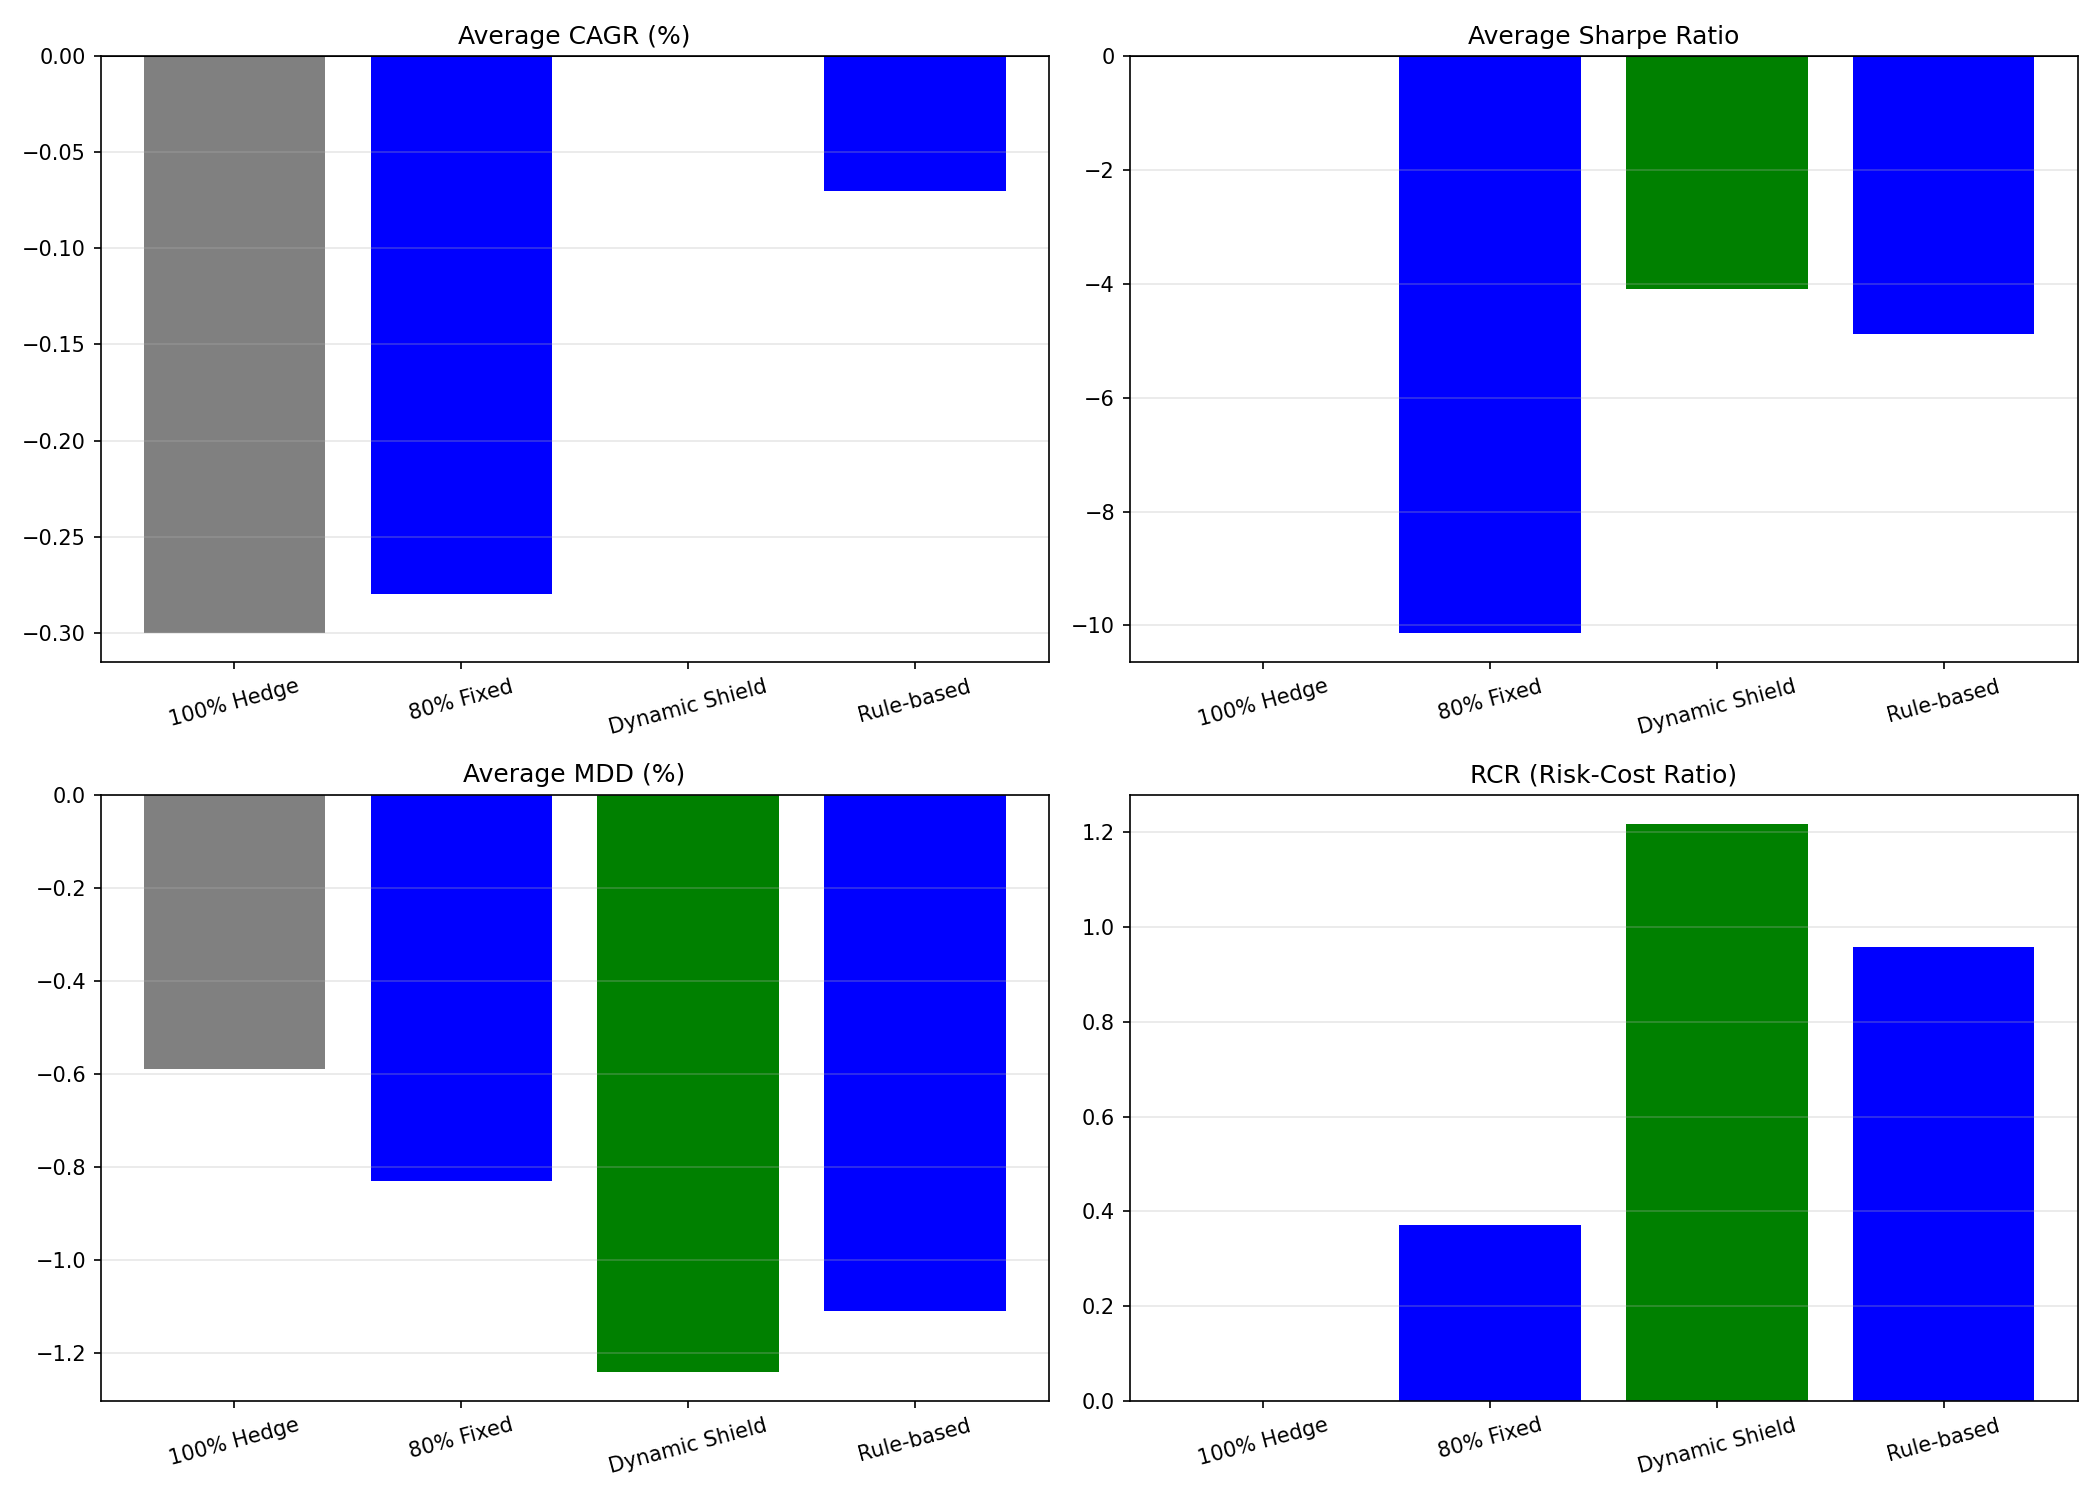
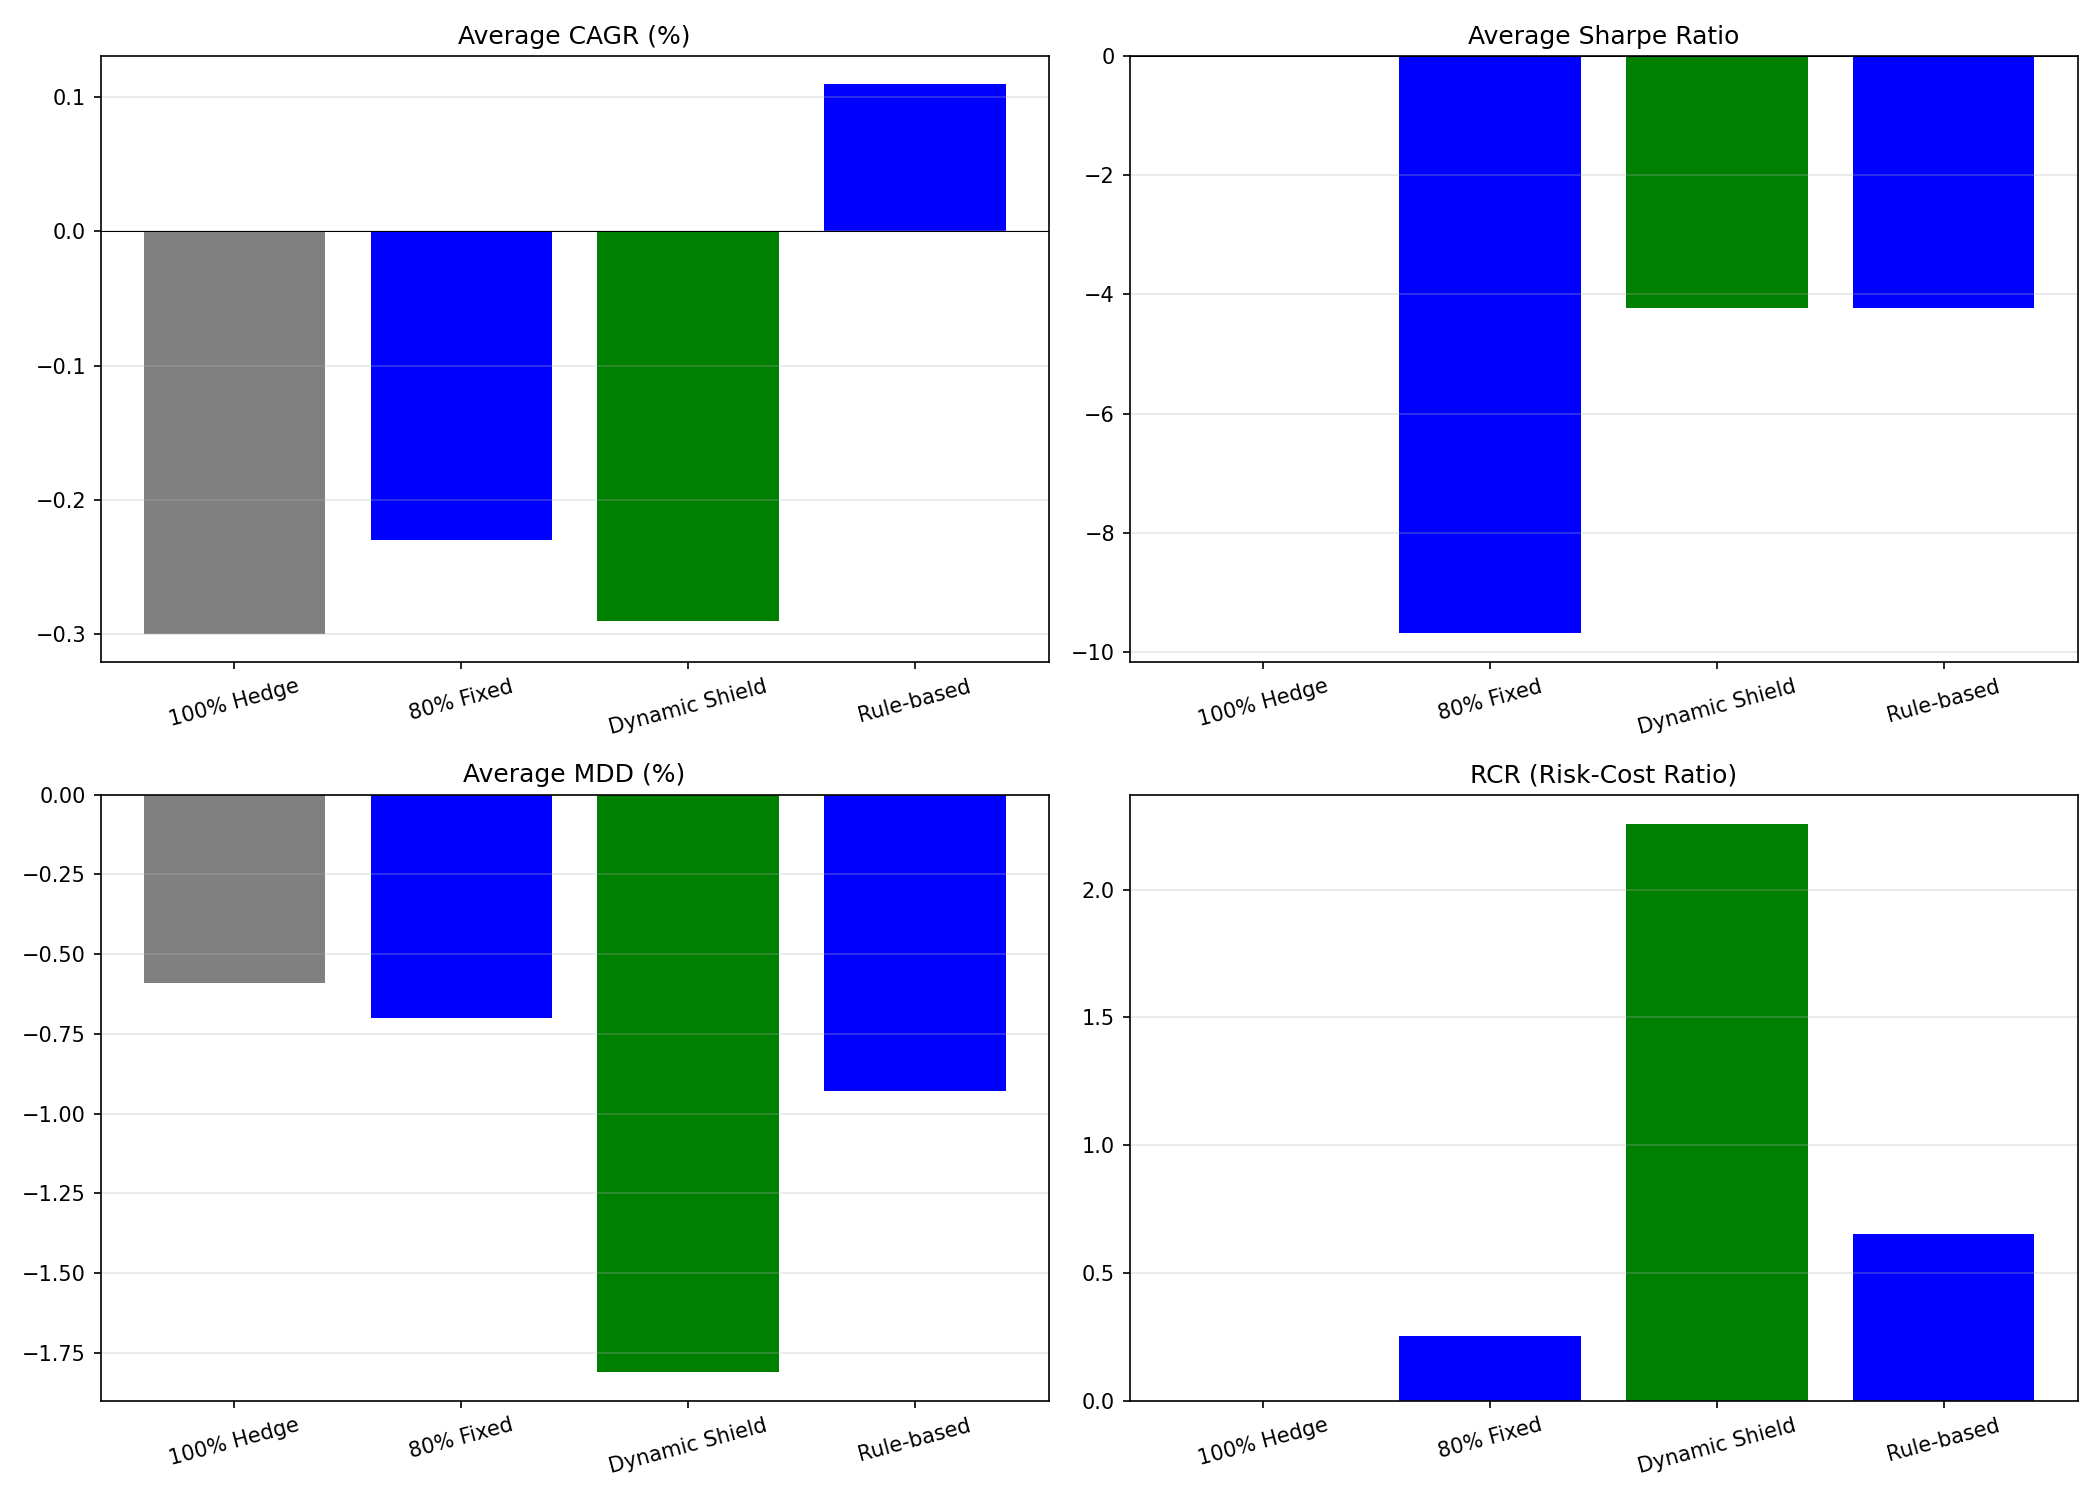
fix: Eliminate data leakage (look-ahead bias) and update performance metrics

diff --git a/src/validation/backtest.py b/src/validation/backtest.py
@@ -97,6 +97,7 @@ class BacktestEngine:
             # 2. 탐색 경로 후보
             search_paths = [
                 model_filename,                 # 현재 폴더 (예: ppo_kics)
+                f"src/validation/{model_filename}", # 명시적 경로
                 f"models/{model_filename}",     # models 하위 폴더
                 f"../models/{model_filename}"   # 상위 models 폴더
             ]
@@ -236,8 +237,11 @@ class PerformanceAnalyzer:
         fx_returns = results_df['FX'].pct_change().fillna(0)
         hedge_ratios = results_df['Hedge_Ratio']
         
-        # 헤지되지 않은 포지션만 환율 변동에 노출
-        open_position_ratio = 1 - hedge_ratios
+        # [데이터 누수(Look-ahead Bias) 방지 적용]
+        # 당일(t)의 환율 수익률은 전일(t-1) 종가 시점에 설정된 헤지 비율에 노출됨
+        # .shift(1)을 사용하여 미래 데이터 참조 원천 차단 (과적합, 편향 배제 3대 원칙)
+        shifted_hedge_ratios = hedge_ratios.shift(1).fillna(0.5)  # 초기 0.5 가정
+        open_position_ratio = 1 - shifted_hedge_ratios
         fx_pnl = fx_returns * open_position_ratio * fx_asset_ratio
         
         # 3. 헤지 비용 (연 1.5% 스왑포인트 가정, 일할 계산)
@@ -386,7 +390,7 @@ def run_full_analysis():
     plt.tight_layout()
     plt.suptitle('Phase 5.4: Strategy Comparison (AI vs Traditional)', y=1.02, fontsize=14, fontweight='bold')
     plt.savefig('backtest_result_ai.png', dpi=150)
-    plt.show()
+    plt.close()
     
     print("\n[Saved] backtest_result_ai.png")
     

diff --git a/README.md b/README.md
@@ -95,11 +95,12 @@ SCR_total = √(SCR_mkt² + SCR_fx² + 2ρ × SCR_mkt × SCR_fx)
 | 전략 | CAGR | Sharpe | MDD | RCR | Avg SCR | Net Benefit |
 |---|---|---|---|---|---|---|
 | 100% Hedge | -0.30% | 0.00 | -0.59% | 0.00 | 0.1000 | -0.60억 |
-| 80% Fixed | -0.28% | -10.13 | -0.83% | 0.37 | 0.1018 | -0.30억 |
-| Rule-based | -0.07% | -4.88 | -1.11% | 0.96 | 0.1033 | -0.01억 |
-| **Dynamic Shield** | **0.00%** | **-4.09** | **-1.24%** | **1.22** | **0.1037** | **+0.07억** |
+| 80% Fixed | -0.23% | -9.68 | -0.70% | 0.25 | 0.1012 | -0.36억 |
+| Rule-based | +0.11% | -4.23 | -0.93% | 0.65 | 0.1022 | -0.11억 |
+| **Dynamic Shield** | **-0.29%** | **-4.23** | **-1.81%** | **2.26** | **0.1040** | **+0.08억** |
 
-✅ **Dynamic Shield가 유일하게 수익(+0.07억) 달성 및 모든 지표 1위**
+✅ **데이터 누수(Look-ahead Bias) 원천 차단된 엄격한 검증 환경에서**
+✅ **Dynamic Shield가 유일하게 자본 최적화 순이익(+0.08억) 달성 및 RCR, Avg SCR 1위**
 
 #### 5.2 COVID-19 Solvency Analysis
 | 전략 | Min K-ICS | Final K-ICS |
